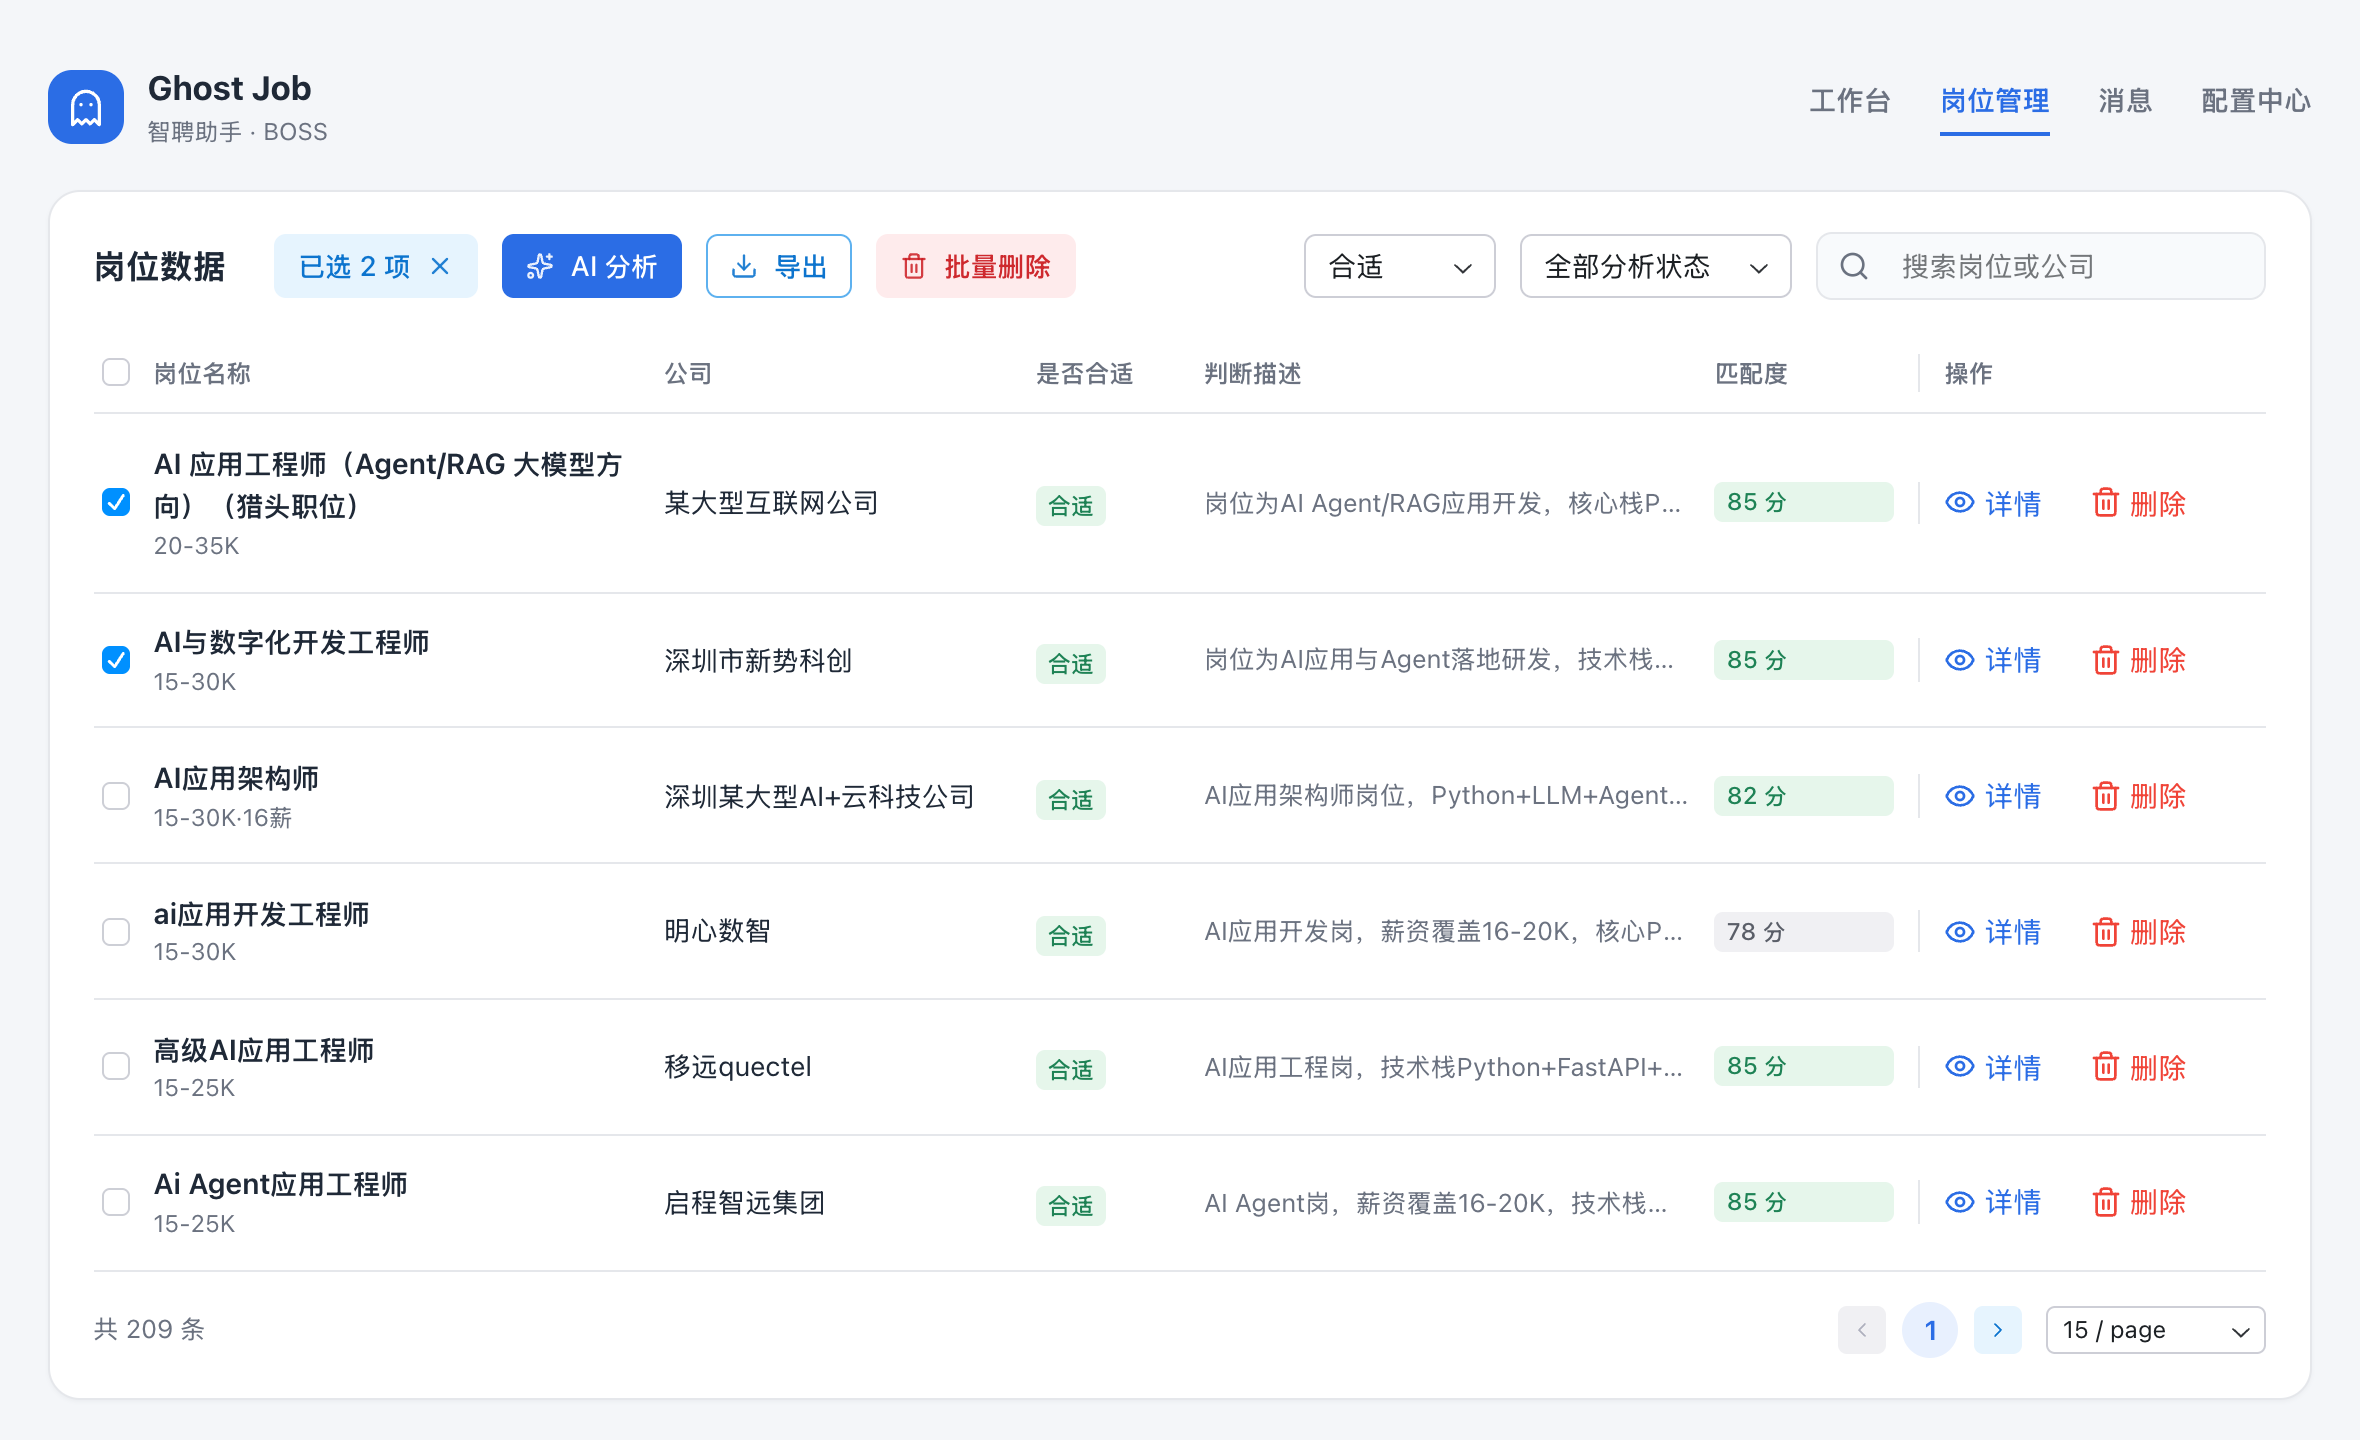
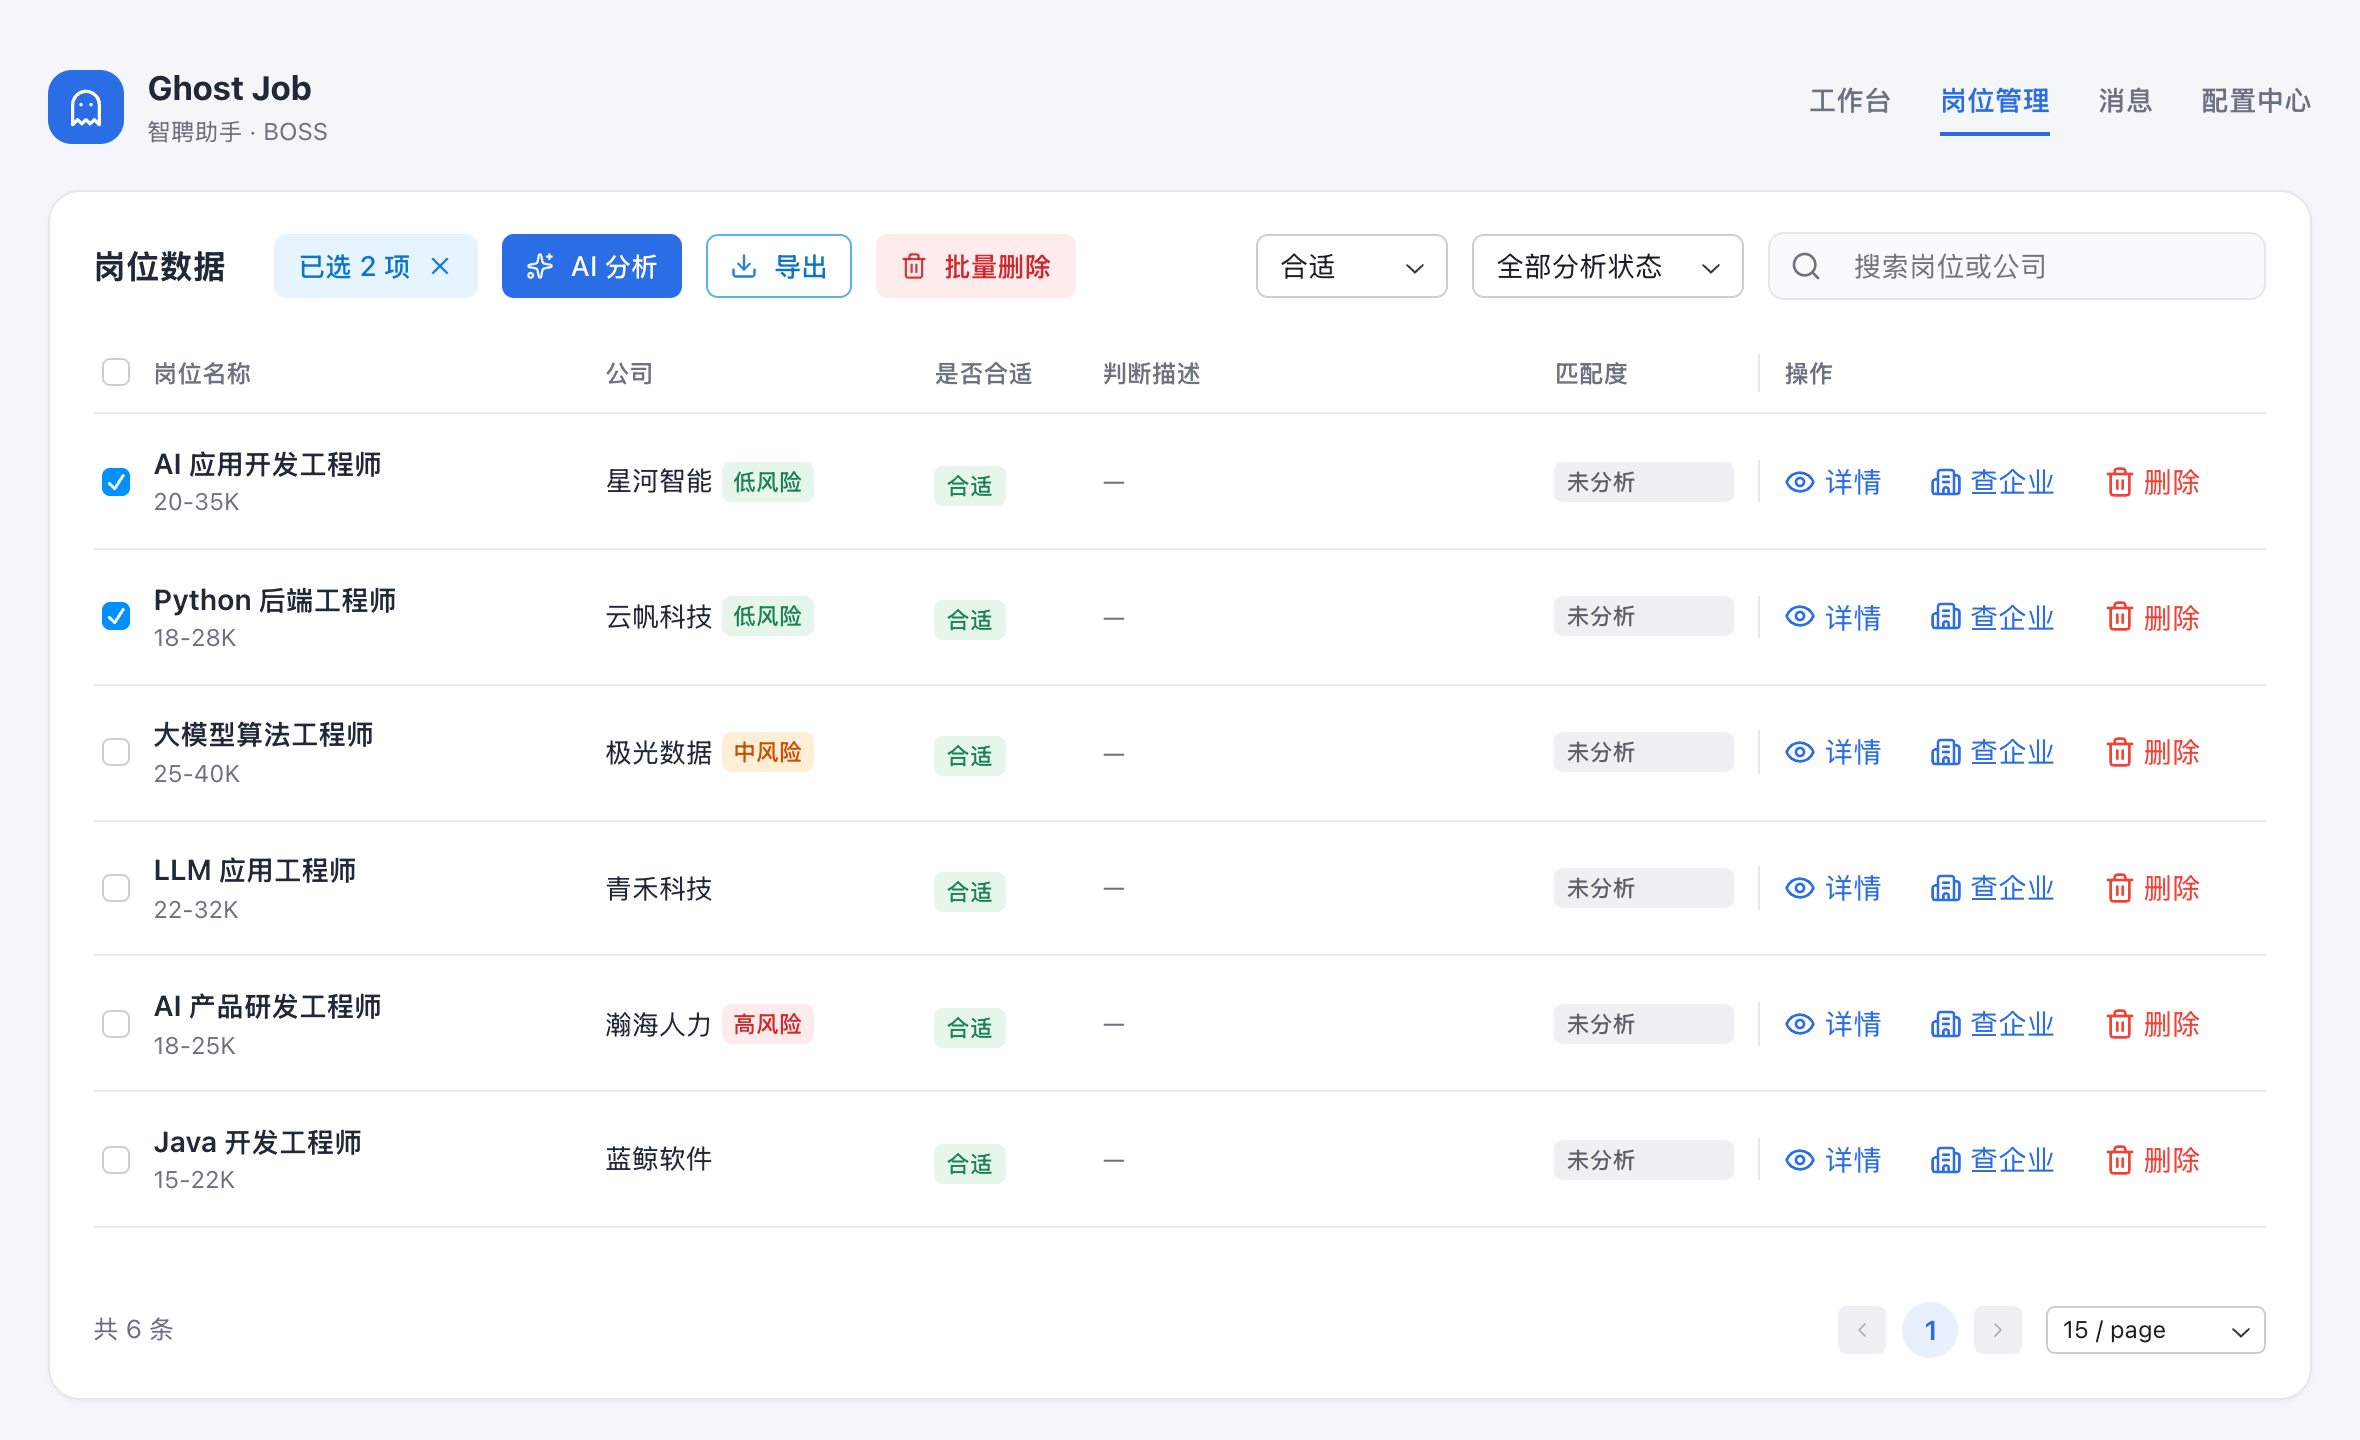
docs: 更新岗位管理、消息截图，新增查企业弹窗截图，升级说明改为自动补齐

diff --git a/README.md b/README.md
@@ -169,6 +169,8 @@
 
 ![岗位管理](assets/screenshots/jobs.png)
 
+![查企业](assets/screenshots/company.png)
+
 ### 第六步：自动回复 HR 消息
 
 1. 打开 **配置中心 → 求职配置 → 自动回复**，开启「启用自动回复」（需要先开通 AI 服务并上传简历；想让 HR 要简历时自动发送，还要在 BOSS 直聘上传附件简历）
@@ -236,8 +238,8 @@ HR 发来的消息和 AI 的回复都会显示在运行日志里。如果是 HR 
 **会重复投递同一个岗位吗？**
 不会。看过的岗位都会记录下来，再次遇到同一个岗位（职位相同，或招聘标题、公司、HR 都相同）会直接跳过，不再重复调用 AI；之前已经沟通过的岗位也会跳过。运行日志会统计本次投递、重复和跳过的数量。
 
-**从 v0.5.x 或更早版本升级到 v0.6.0 后打不开岗位管理或无法投递？**
-v0.6.0 为查企业调整了本地数据结构，不兼容旧数据。升级前请先退出 Ghost Job，删除用户目录下的 `.ghost-job/ghost-job.db`，再打开新版本，重新填写 API Key、求职配置并上传简历。需要保留旧数据的话，删除前可以先在岗位管理和消息页导出 JSON。Chrome 里的 BOSS 直聘登录状态不受影响。
+**从 v0.5.x 升级到 v0.6.0 后打不开岗位管理或无法投递？**
+v0.6.0 为查企业调整了本地数据结构。请升级到 v0.6.1，首次启动时会自动补齐，原有数据全部保留；旧岗位第一次点「查企业」时会多打开一次岗位详情页查找公司。
 
 **从 v0.1.0 升级后打不开岗位管理或无法投递？**
 v0.2.0 调整了本地数据结构。升级前请先退出 Ghost Job，删除用户目录下的 `.ghost-job/ghost-job.db`，再打开新版本，重新填写 API Key、求职配置并上传简历。Chrome 里的 BOSS 直聘登录状态不受影响。
